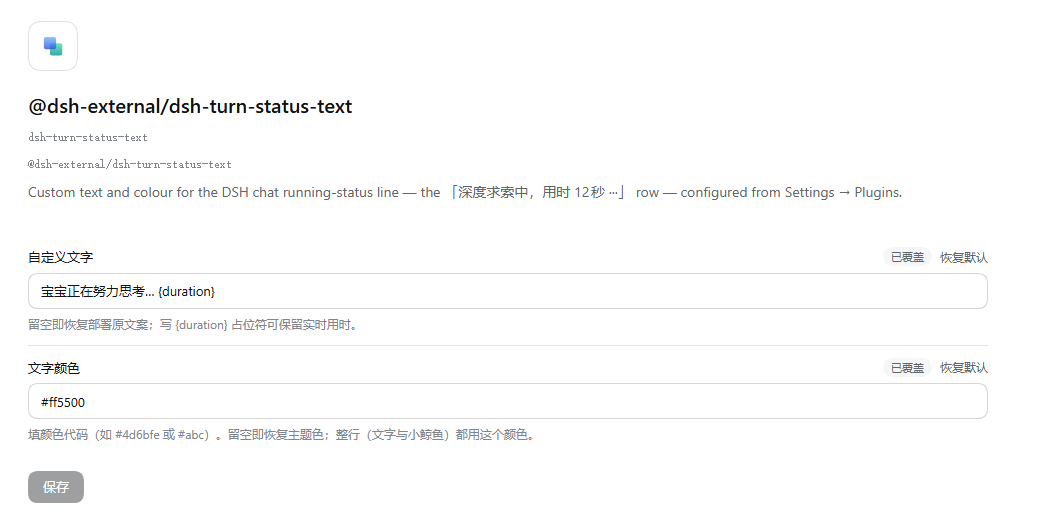
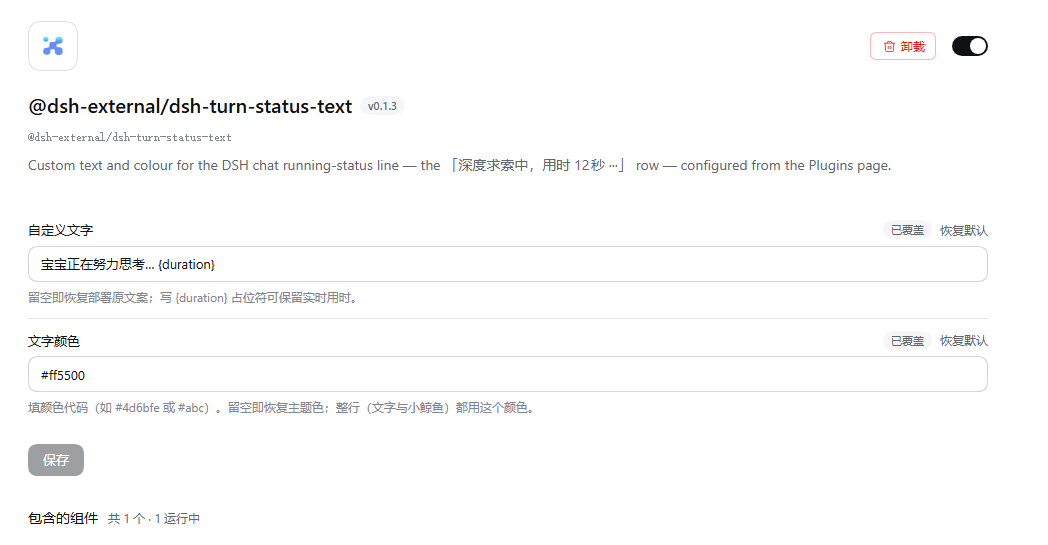
docs: the configuration now sits on the plugin's own page
Mirrors the v0.1.3 entry point in both READMEs: the section under the plugin
title, the row's page as the second way in, both slots and their keys, and the
measured walkthrough starting from the plugin page instead of the row.

diff --git a/README.en.md b/README.en.md
@@ -73,15 +73,19 @@ dsh plugin --profile <your profile> remove @dsh-external/dsh-turn-status-text
 
 ## How to configure
 
-**1. Configure it in the Plugins page (recommended)**: **sidebar → Plugins → open this plugin in the list → click that chevron title on the row (the `配置 @dsh-external/dsh-turn-status-text` button)** → two inputs: the custom text and the text colour → Save.
+**1. Configure it in the Plugins page (recommended)**: **sidebar → Plugins → open this plugin in the list → the configuration section is right under the title** (no need to open 包含的组件) → two inputs: the custom text and the text colour → Save.
 
-![The configuration page inside the Plugins page](docs/plugins-config.png)
+![The configuration section on the plugin's own page](docs/plugins-config.png)
+
+There is another way in: the same form also lives on the row inside "包含的组件" (click that row's chevron title, the `配置 @dsh-external/dsh-turn-status-text` button).
 
 > In 0.2.0-rc the plugin configuration is no longer under "Settings → Plugins → Configurable": that tab and the `settings.plugin.item` slot it dispatched do not exist in the new build.
-> The Plugins page now gives a configuration entry only to **rows that registered a configuration page**: the `plugins.row.config` slot, keyed `<package name>#<row id>`,
-> that is `@dsh-external/dsh-turn-status-text#dsh-turn-status-text` (the `rowConfigKey()` / `configure.has(row)` in `ui-plugin-manager`).
+> The Plugins page now collects configuration from two slots, and **each needs a registration before any entry appears**:
+> - `plugins.bundle.config` (key = the package name) → renders a configuration section under the plugin's own title, which is the screenshot above;
+> - `plugins.row.config` (key = `<package name>#<row id>`, i.e. `rowConfigKey()` in `ui-plugin-manager`) → gives that row inside "包含的组件" a page of its own (`configure.has(row)`).
+>
 > The values travel over the `configForms` service (`configForms.get(row id)`, guarded by `whileServed`), and the form is the platform's own
-> `SettingsFormModel` / `SettingsForm` / `SettingsValueField`, so this page looks exactly like the settings pages the deployment ships.
+> `SettingsFormModel` / `SettingsForm` / `SettingsValueField`, so both places look exactly like the settings pages the deployment ships.
 
 Both fields are `volatile()` fields on this row's Config, so a save takes effect **immediately — with neither a restart nor a page reload**.
 
@@ -151,26 +155,32 @@ and all three sides (the Host projection, the Plugins page form, the browser hal
 Both fields carry `volatile()`: `volatile` means "the value can be changed without remounting this row, and what you read is always the latest value",
 which is why the Plugins page puts it into an editable form; an empty-string default means "inherit" (the shipped copy / the theme colour).
 
-**But the settings section being served ≠ the Plugins page giving it an entry**: the Plugins page renders that chevron "Config" title only for rows that registered `plugins.row.config`,
-and the key has to be `<package name>#<row id>`. So this registration is the second thing the browser half has to do:
+**But the settings section being served ≠ the Plugins page giving it an entry**: the Plugins page only renders places that **registered a configuration slot** —
+the plugin's own page needs `plugins.bundle.config` (key = the package name), and the row inside "包含的组件" needs `plugins.row.config` (key = `<package name>#<row id>`).
+So registering this form into both slots is the second thing the browser half has to do:
 
 ```js
 const inject = ['slots', 'locale']                       // required services: just these two
 ctx.inject(['configForms', 'slots'], (scoped) => {       // settings form optional: without it the label override still works
   scope = scoped.configForms.get('dsh-turn-status-text')  // ConfigFormController: getSnapshot/ subscribe/ set/ mutate
   const card = new TurnStatusTextCardController(scope)    // wraps the platform's SettingsFormModel
-  scoped.configForms.whileServed([NS], () => scoped.slots.inject('plugins.row.config', () => scoped.slots.register({
-    name: 'plugins.row.config',
-    key: '@dsh-external/dsh-turn-status-text#dsh-turn-status-text',
-    locale: CARD_NS,
-    inject: () => card.inject(),                          // { hooks, edit, resetField, discard, save }
-  }, TurnStatusTextCard)))
+  scoped.configForms.whileServed([NS], () => {
+    for (const page of [
+      { slot: 'plugins.bundle.config', key: '@dsh-external/dsh-turn-status-text' },                    // the plugin's own page
+      { slot: 'plugins.row.config', key: '@dsh-external/dsh-turn-status-text#dsh-turn-status-text' },  // that row's page
+    ]) {
+      scoped.slots.inject(page.slot, () => scoped.slots.register({
+        name: page.slot, key: page.key, locale: CARD_NS,
+        inject: () => card.inject(),                      // { hooks, edit, resetField, discard, save }
+      }, TurnStatusTextCard))
+    }
+  })
 })
 ```
 
-`whileServed` is the guard the platform provides for "mount this page only when the Host really serves this settings entry": on a deployment that has not composed this row, the Plugins page shows no trace of it.
-The row configuration page calls the component with `view: 'page'` (the summary row in the row list is `view: 'summary'`), and the platform also passes a `form` (`{state, mutate}`) in;
-this plugin wraps its own `SettingsFormModel` (the same `configForms` scope), so staging / saving / discarding / resetting to default mean exactly what they mean on the settings pages the deployment ships.
+`whileServed` is the guard the platform provides for "mount these two places only when the Host really serves this settings entry": on a deployment that has not composed this row, the Plugins page shows no trace of them.
+Both call the component with `view: 'page'` (the summary row in the row list is `view: 'summary'`); the plugin's own page passes no `form`, the row page passes one (`{state, mutate}`).
+This plugin uses its own `SettingsFormModel` in both (the same `configForms` scope), so staging / saving / discarding / resetting to default mean exactly what they mean on the settings pages the deployment ships.
 
 ### Why the colour rule is written this way
 
@@ -230,7 +240,7 @@ node tools/hmr-probe.mjs 15
 colour normalization (`#ABC` → `#aabbcc`, `4d6bfe` → `#4d6bfe`, `red`/`#12345` rejected),
 the **exact CSS text** of both attribute selectors and of the legacy `_turnStatus` gradient rule, the page-global overrides and their fallback,
 the binding of `configForms.get(row id)`, the `whileServed` guard (no configuration page mounted when the settings entry is not served),
-the `plugins.row.config` slot and the `<package name>#<row id>` key, both the summary and the full-page view,
+both slots (`plugins.bundle.config` by package name, `plugins.row.config` by `<package name>#<row id>`), that each slot is claimed once, both the summary and the full-page view,
 the form state and the injection of the form actions, a field edit / reset to default landing in the settings through the platform form and rendering on the status line,
 a scope without `mutate` falling back to `set`/`unset`, and the style element and the dictionaries removed after cleanup.
 
@@ -286,8 +296,8 @@ OK: dsh-turn-status-text is served -> {"text":"","color":""}
 ), and then headless Chromium walked the real UI once:
 
 1. sidebar **Plugins** → open `@dsh-external/dsh-turn-status-text` in the plugin list;
-2. that row's title turns into a chevron button, `aria-label="配置 @dsh-external/dsh-turn-status-text"` (without the `plugins.row.config` registration it is plain text);
-3. click it → the page renders the two fields **自定义文字** / **文字颜色** (custom text / text colour);
+2. **the configuration section is right under the title** (`[data-plugin-config]`, no need to open "包含的组件"), with the two fields **自定义文字** / **文字颜色** (custom text / text colour);
+3. the row keeps a page of its own as well: its title is a chevron button, `aria-label="配置 @dsh-external/dsh-turn-status-text"` (without the `plugins.row.config` registration it is plain text);
 4. fill in `宝宝正在努力思考… {duration}` and `#ff5500`, click **Save**;
 5. back in the conversation, read the status line:
 
@@ -296,7 +306,7 @@ OK: dsh-turn-status-text is served -> {"text":"","color":""}
  "rowColor":"rgb(255, 85, 0)","deepDivingVar":"#ff5500","shimmerVar":"#ff5500"}
 ```
 
-The leading half is the `aria-live` announcement and the trailing half is the visible row; the configuration page is in `docs/plugins-config.png`.
+The leading half is the `aria-live` announcement and the trailing half is the visible row; the configuration section is in `docs/plugins-config.png` (since v0.1.3 it sits on the plugin's own page).
 In other words: **save in the Plugins page → the chat row renders with your text and colour at once**, with no page reload anywhere in the loop.
 
 ## Compatibility
